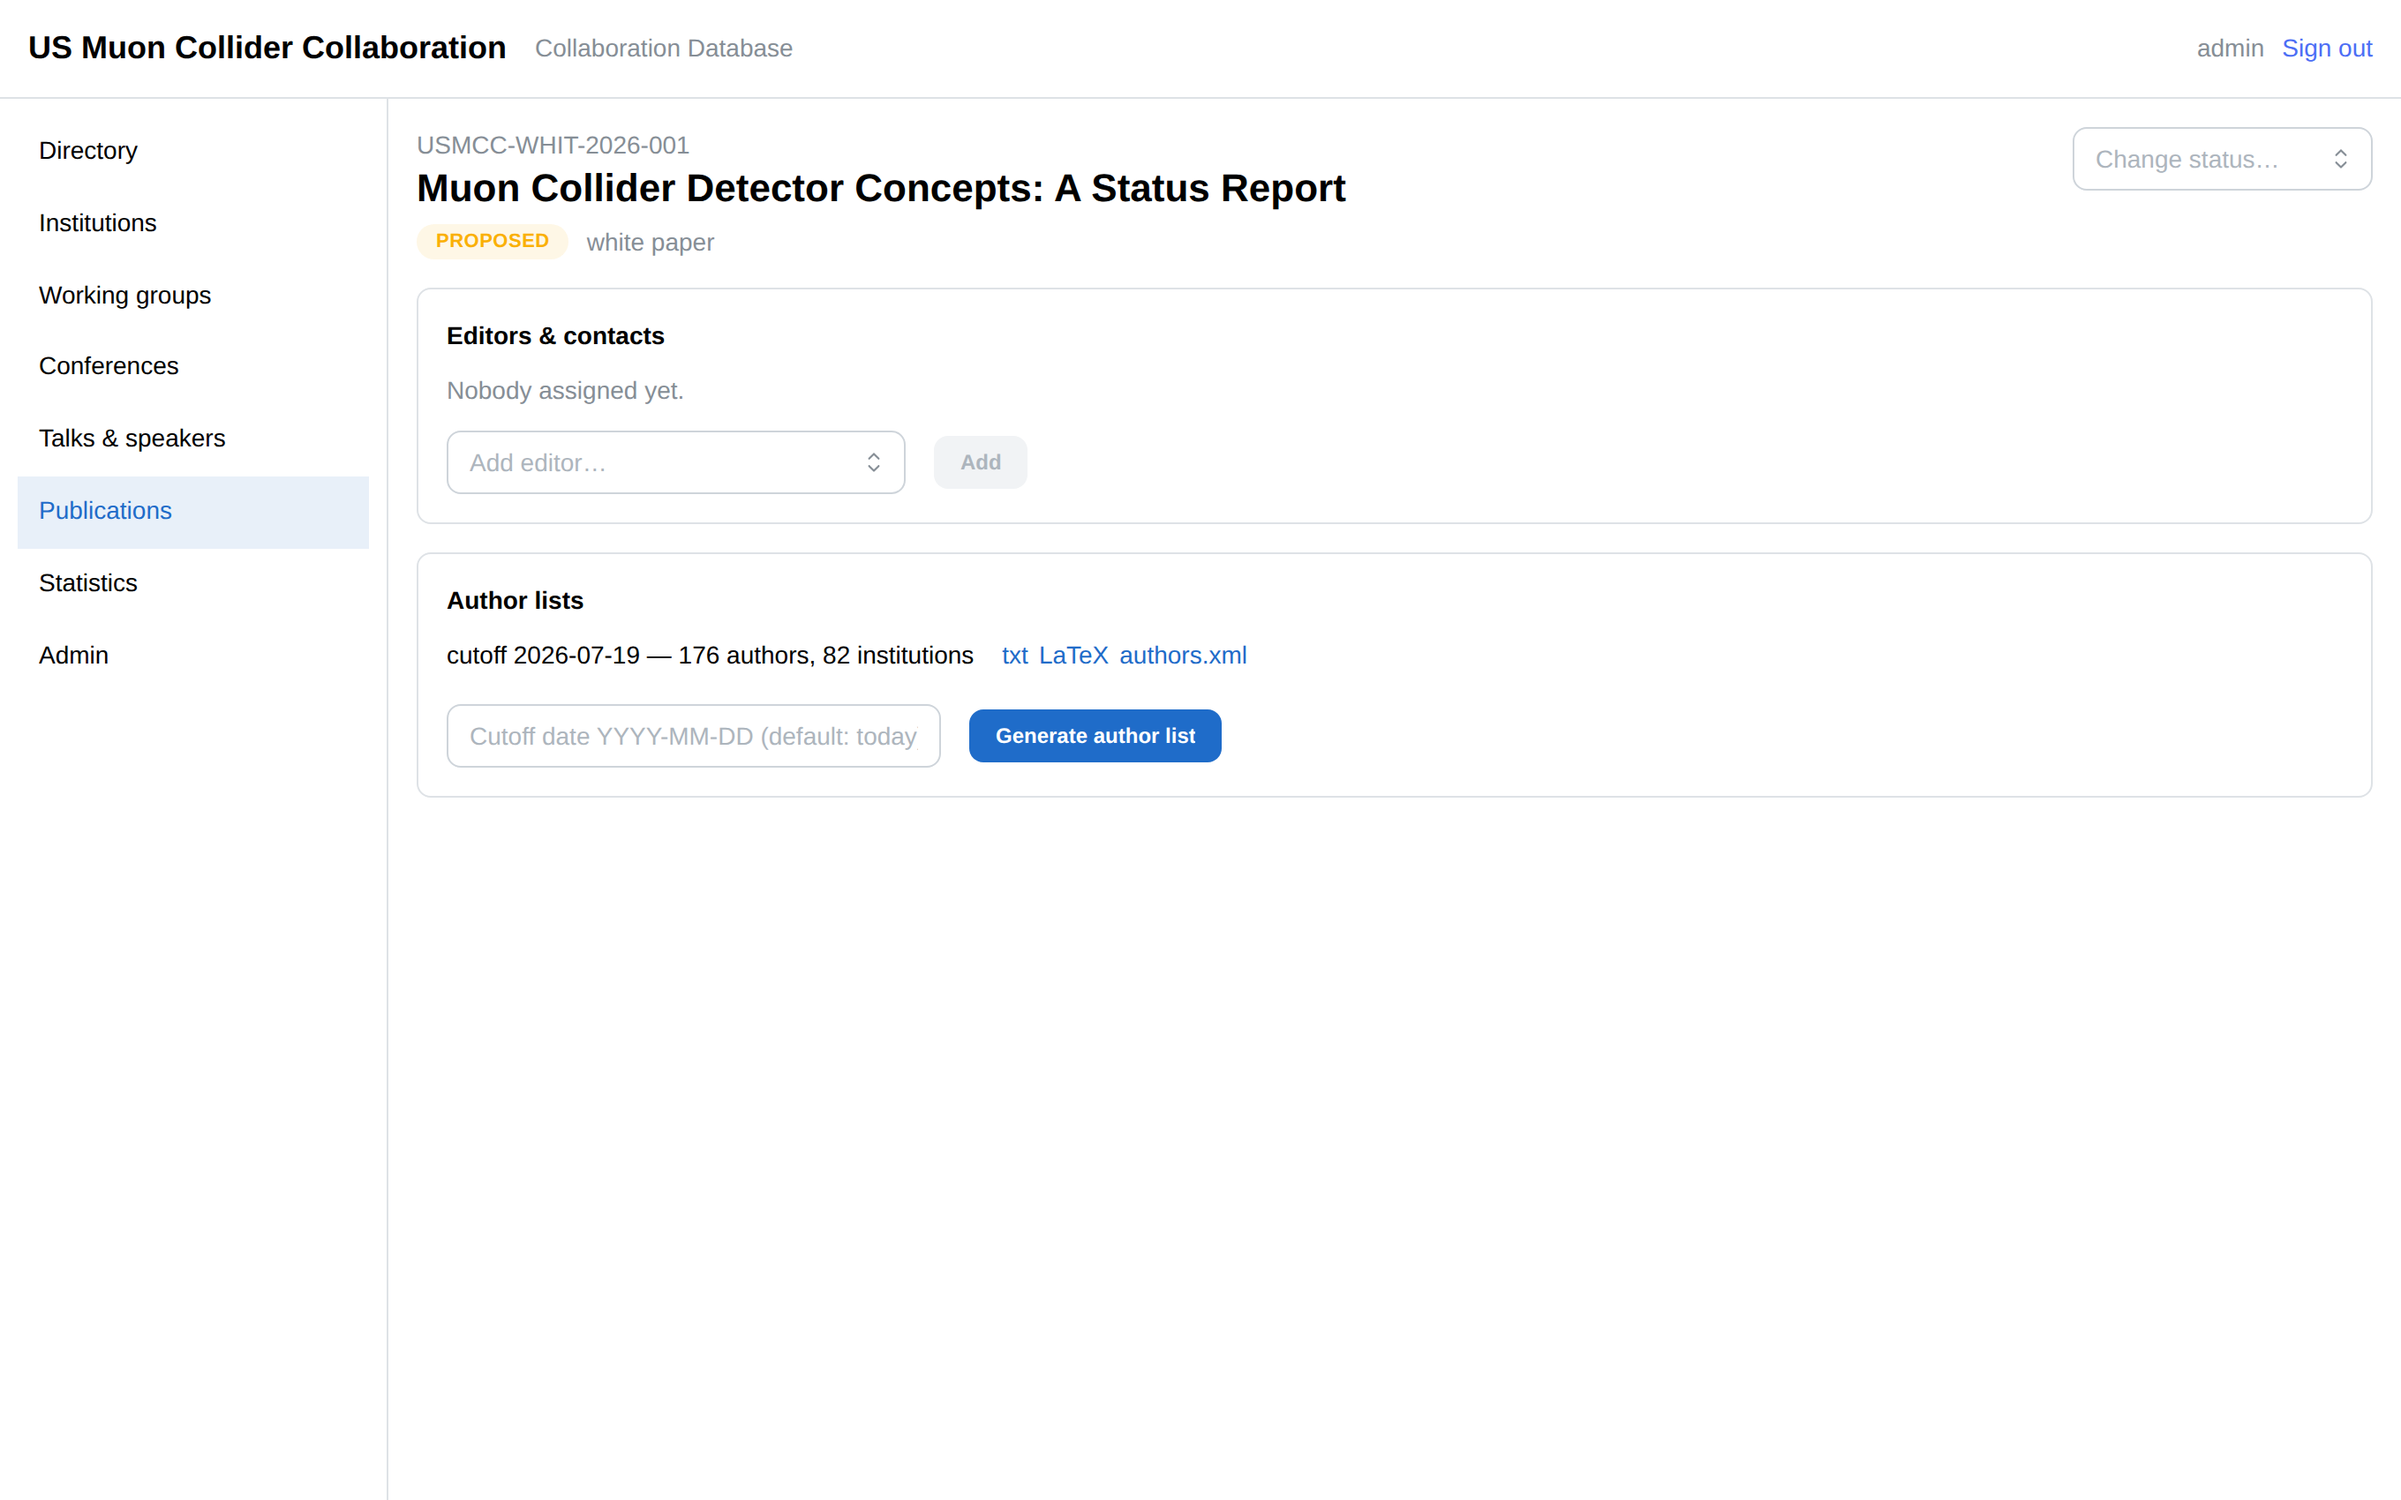
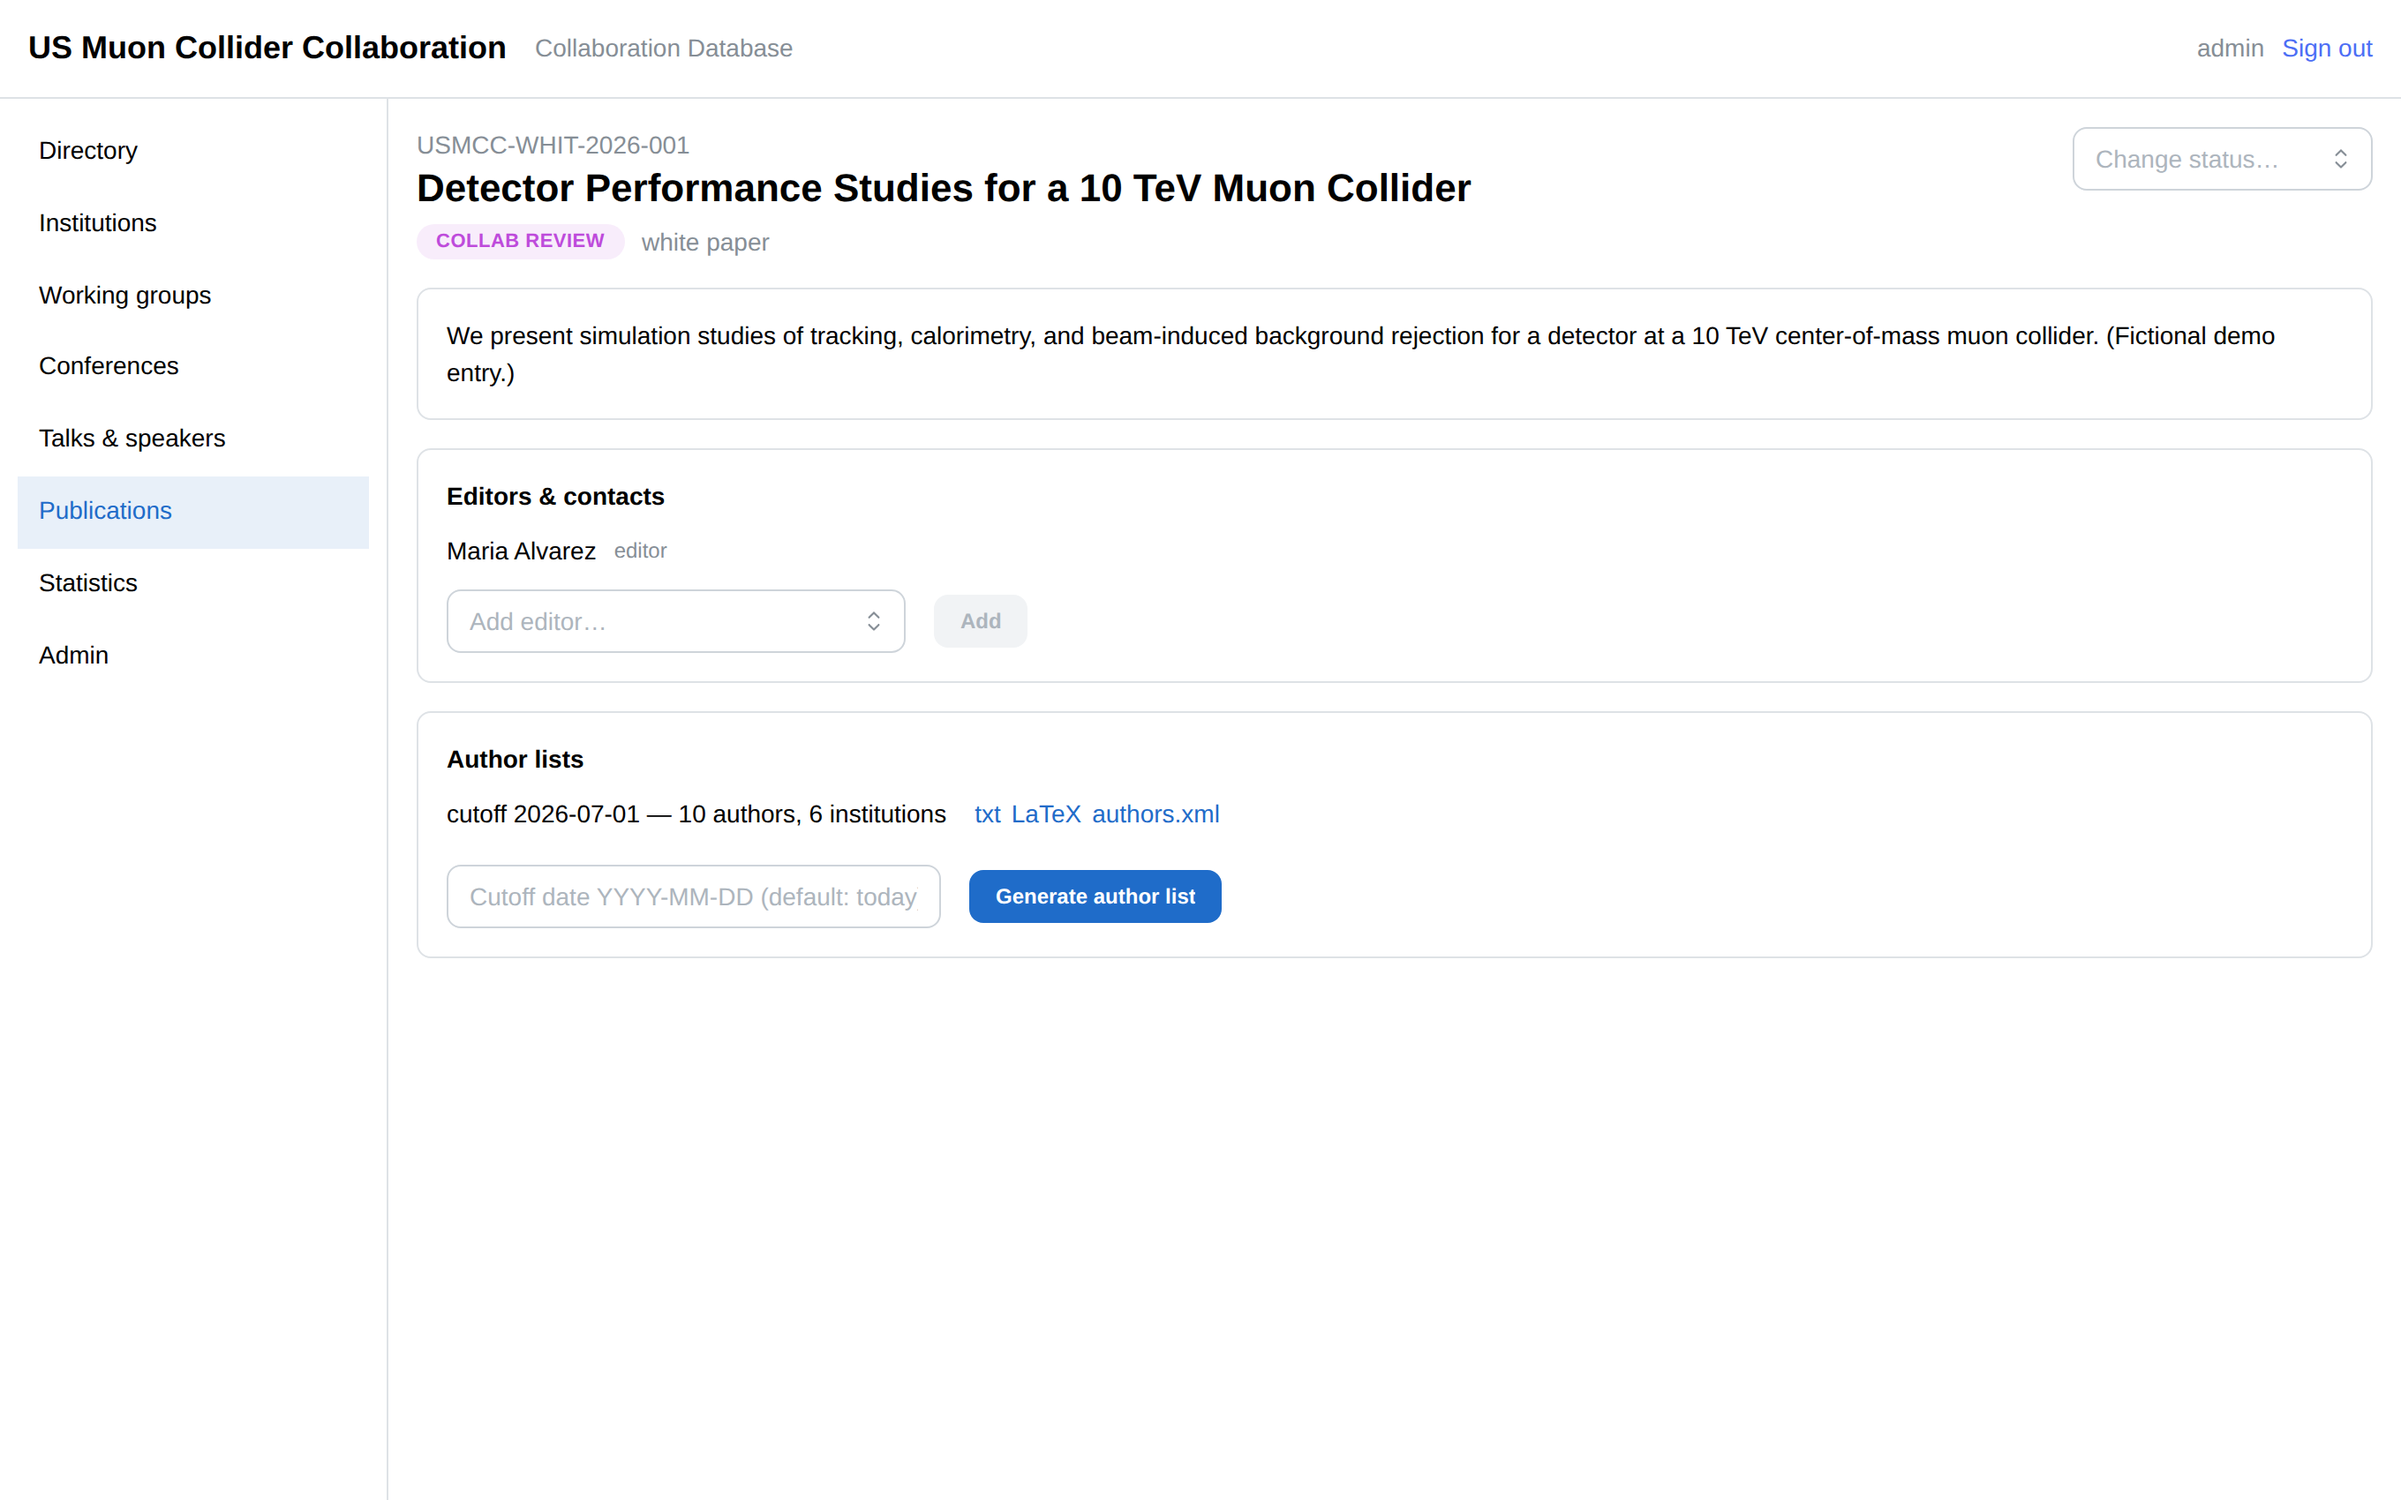
Regenerate README screenshots from fictional demo data; add seed-demo CLI
New `python -m app.cli seed-demo` populates an empty database with clearly
fictional people, institutions, talks, and a publication with a generated
author list — used for the README screenshots (no real member data in the
public repo) and handy for demos/development.

Claude-Session: https://claude.ai/code/session_01DdUxDKaQvUwKatZvrEpXBk

Changed region(s): [[0.1875, 0.2182, 0.9375, 0.6235], [0.1875, 0.0935, 0.625, 0.1871]]

diff --git a/backend/app/cli.py b/backend/app/cli.py
@@ -172,6 +172,193 @@ def import_members(
             typer.echo(f"Imported: {created} created, {updated} updated, {skipped} skipped")
 
 
+# --- Demo data -------------------------------------------------------------------
+
+DEMO_INSTITUTIONS = [
+    ("University of Springfield", "USpring", "University of Springfield, Springfield, IL 62901, USA"),
+    ("Lakeview National Laboratory", "LNL", "Lakeview National Laboratory, Lakeview, IL 60510, USA"),
+    ("Coastal State University", "CSU", "Coastal State University, Santa Rosa, CA 95401, USA"),
+    ("Midwest Institute of Technology", "MIT-W", "Midwest Institute of Technology, Des Moines, IA 50309, USA"),
+    ("Bayside University", "Bayside", "Bayside University, Gulfport, MS 39501, USA"),
+    ("Northern Plains University", "NPU", "Northern Plains University, Fargo, ND 58102, USA"),
+]
+
+# (given, family, stage, voting, institution index, orcid)
+DEMO_PEOPLE = [
+    ("Maria", "Alvarez", CareerStage.faculty, True, 0, "0000-0002-0000-0001"),
+    ("James", "O'Connor", CareerStage.faculty, True, 1, "0000-0002-0000-0002"),
+    ("Wei", "Chen", CareerStage.postdoc, True, 1, "0000-0002-0000-0003"),
+    ("Priya", "Sharma", CareerStage.faculty, True, 2, None),
+    ("Sam", "Taylor", CareerStage.grad, False, 0, None),
+    ("Fatima", "Hassan", CareerStage.staff, True, 1, "0000-0002-0000-0005"),
+    ("Émile", "Dubois", CareerStage.postdoc, True, 3, None),
+    ("Grace", "Kim", CareerStage.faculty, True, 4, "0000-0002-0000-0007"),
+    ("Diego", "Martínez", CareerStage.grad, False, 2, None),
+    ("Anna", "Kowalski", CareerStage.staff, True, 5, None),
+    ("Ravi", "Patel", CareerStage.engineer, False, 1, None),
+    ("Lucy", "Wright", CareerStage.undergrad, False, 0, None),
+    ("Tomás", "Silva", CareerStage.postdoc, True, 5, "0000-0002-0000-0011"),
+    ("Nina", "Volkova", CareerStage.faculty, True, 3, None),
+]
+
+# (title, conference idx, type, date, speaker idx or None, invited, status)
+DEMO_EVENTS = [
+    ("Future Colliders Workshop 2024", "Chicago, IL", date(2024, 9, 16), date(2024, 9, 20)),
+    ("Accelerator Science Symposium 2025", "Berkeley, CA", date(2025, 3, 10), date(2025, 3, 14)),
+    ("Particle Physics Frontiers 2025", "Knoxville, TN", date(2025, 10, 6), date(2025, 10, 10)),
+    ("Community Summer Study 2026", "Boulder, CO", date(2026, 7, 20), date(2026, 7, 31)),
+]
+
+DEMO_TALKS = [
+    ("Muon Collider Physics Overview", 0, "plenary", date(2024, 9, 17), 0, True, "given"),
+    ("Cooling Channel Design Status", 0, "parallel", date(2024, 9, 18), 2, False, "given"),
+    ("Detector Concepts for 10 TeV", 0, "parallel", date(2024, 9, 19), 7, False, "given"),
+    ("High-Field Magnets for Muon Colliders", 1, "plenary", date(2025, 3, 11), 5, True, "given"),
+    ("RF Systems for Rapid Acceleration", 1, "parallel", date(2025, 3, 12), 6, False, "given"),
+    ("Beam-Induced Background Mitigation", 1, "parallel", date(2025, 3, 13), 2, True, "given"),
+    ("Tracking in a High-Occupancy Environment", 2, "parallel", date(2025, 10, 7), 12, False, "given"),
+    ("Calorimetry R&D Progress", 2, "parallel", date(2025, 10, 8), 3, False, "given"),
+    ("US Muon Collider Program Status", 2, "plenary", date(2025, 10, 9), 1, True, "given"),
+    ("Higgs Couplings at a Muon Collider", 3, "plenary", date(2026, 7, 21), 13, True, "assigned"),
+    ("Neutrino Flux Opportunities", 3, "parallel", date(2026, 7, 23), 9, False, "assigned"),
+    ("Machine-Detector Interface Design", 3, "parallel", date(2026, 7, 24), None, False, "nominations"),
+]
+
+
+@cli.command()
+def seed_demo():
+    """Populate the database with FICTIONAL demo data (for screenshots,
+    demos, and development). Safe to run only on an empty/dev database."""
+    from app.models import (
+        AuthorList,
+        Event,
+        Nomination,
+        Publication,
+        PublicationPerson,
+        PublicationPersonRole,
+        PublicationStatus,
+        PublicationType,
+        Talk,
+        TalkStatus,
+        TalkType,
+        User,
+    )
+    from app.services.author_list import build_snapshot
+
+    with SessionLocal() as db:
+        if db.execute(select(Person.id).limit(1)).first() is not None:
+            typer.echo("Database already has people — refusing to seed demo data.")
+            raise typer.Exit(1)
+
+        insts = []
+        for name, short, address in DEMO_INSTITUTIONS:
+            inst = Institution(name=name, short_name=short, latex_address=address)
+            db.add(inst)
+            insts.append(inst)
+        db.flush()
+
+        people = []
+        for i, (given, family, stage, voting, inst_idx, orcid) in enumerate(DEMO_PEOPLE):
+            person = Person(
+                given_name=given,
+                family_name=family,
+                email=f"{given}.{family}".lower()
+                .replace(" ", "")
+                .replace("'", "")
+                .translate(str.maketrans("éíáóú", "eiaou"))
+                + "@example.edu",
+                orcid=orcid,
+                career_stage=stage,
+                status=MemberStatus.active,
+                is_voting=voting,
+                expertise="Muon collider R&D",
+            )
+            db.add(person)
+            db.flush()
+            db.add(
+                Affiliation(
+                    person_id=person.id,
+                    institution_id=insts[inst_idx].id,
+                    is_primary=True,
+                    start_date=date(2024, 1 + i % 12, 1),
+                )
+            )
+            if voting:
+                db.add(AuthorPeriod(person_id=person.id, start_date=date(2024, 6, 1)))
+            people.append(person)
+
+        for name, slug in DEFAULT_WGS:
+            if not db.execute(
+                select(WorkingGroup).where(WorkingGroup.slug == slug)
+            ).scalar_one_or_none():
+                db.add(WorkingGroup(name=name, slug=slug))
+
+        events = []
+        for name, location, start, end in DEMO_EVENTS:
+            ev = Event(name=name, location=location, start_date=start, end_date=end)
+            db.add(ev)
+            events.append(ev)
+        db.flush()
+
+        admin_user = db.execute(select(User).limit(1)).scalar_one_or_none()
+        for title, ev_idx, ttype, tdate, sp_idx, invited, status in DEMO_TALKS:
+            talk = Talk(
+                title=title,
+                event_id=events[ev_idx].id,
+                talk_type=TalkType(ttype),
+                date=tdate,
+                speaker_person_id=people[sp_idx].id if sp_idx is not None else None,
+                status=TalkStatus(status),
+                is_invited=invited,
+            )
+            db.add(talk)
+            db.flush()
+            if status == "nominations":
+                for cand in (6, 10):
+                    db.add(
+                        Nomination(
+                            talk_id=talk.id,
+                            person_id=people[cand].id,
+                            nominated_by_user_id=admin_user.id if admin_user else None,
+                        )
+                    )
+
+        pub = Publication(
+            title="Detector Performance Studies for a 10 TeV Muon Collider",
+            short_code="USMCC-WHIT-2026-001",
+            pub_type=PublicationType.white_paper,
+            status=PublicationStatus.collab_review,
+            target_journal="arXiv",
+            abstract="We present simulation studies of tracking, calorimetry, and "
+            "beam-induced background rejection for a detector at a 10 TeV "
+            "center-of-mass muon collider. (Fictional demo entry.)",
+            author_cutoff_date=date(2026, 7, 1),
+        )
+        db.add(pub)
+        db.flush()
+        db.add(
+            PublicationPerson(
+                publication_id=pub.id,
+                person_id=people[0].id,
+                role=PublicationPersonRole.editor,
+            )
+        )
+        snapshot = build_snapshot(db, date(2026, 7, 1))
+        db.add(
+            AuthorList(
+                publication_id=pub.id,
+                cutoff_date=date(2026, 7, 1),
+                generated_by_user_id=admin_user.id if admin_user else None,
+                snapshot=snapshot,
+            )
+        )
+        db.commit()
+        typer.echo(
+            f"Seeded demo data: {len(DEMO_PEOPLE)} people, {len(DEMO_INSTITUTIONS)} "
+            f"institutions, {len(DEMO_TALKS)} talks, 1 publication with author list."
+        )
+
+
 # --- Direct xlsx imports (match the USMCC Google-form exports) -----------------
 
 ORCID_RE = re.compile(r"(\d{4}-\d{4}-\d{4}-\d{3}[\dX])")
